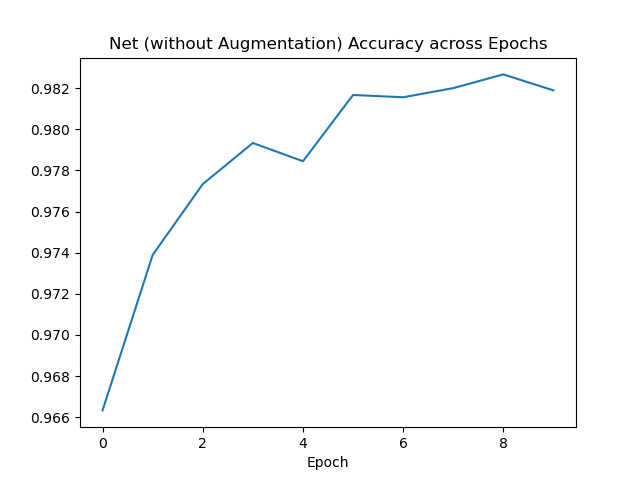
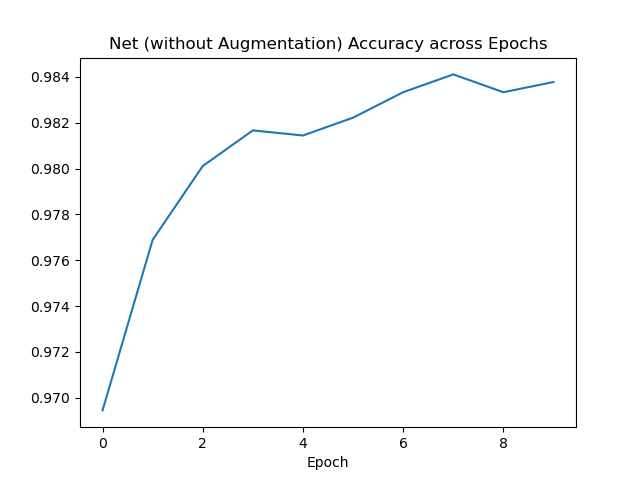
lower dropout of Net to .1

diff --git a/main.py b/main.py
@@ -90,8 +90,8 @@ class Net(nn.Module):
         super(Net, self).__init__()
         self.conv1 = nn.Conv2d(in_channels=1, out_channels=8, kernel_size=(3,3), stride=1)
         self.conv2 = nn.Conv2d(8, 8, 3, 1)
-        self.dropout1 = nn.Dropout2d(0.3)
-        self.dropout2 = nn.Dropout2d(0.2)
+        self.dropout1 = nn.Dropout2d(0.1)
+        self.dropout2 = nn.Dropout2d(0.1)
         self.fc1 = nn.Linear(200, 64)
         self.fc2 = nn.Linear(64, 10)
 
